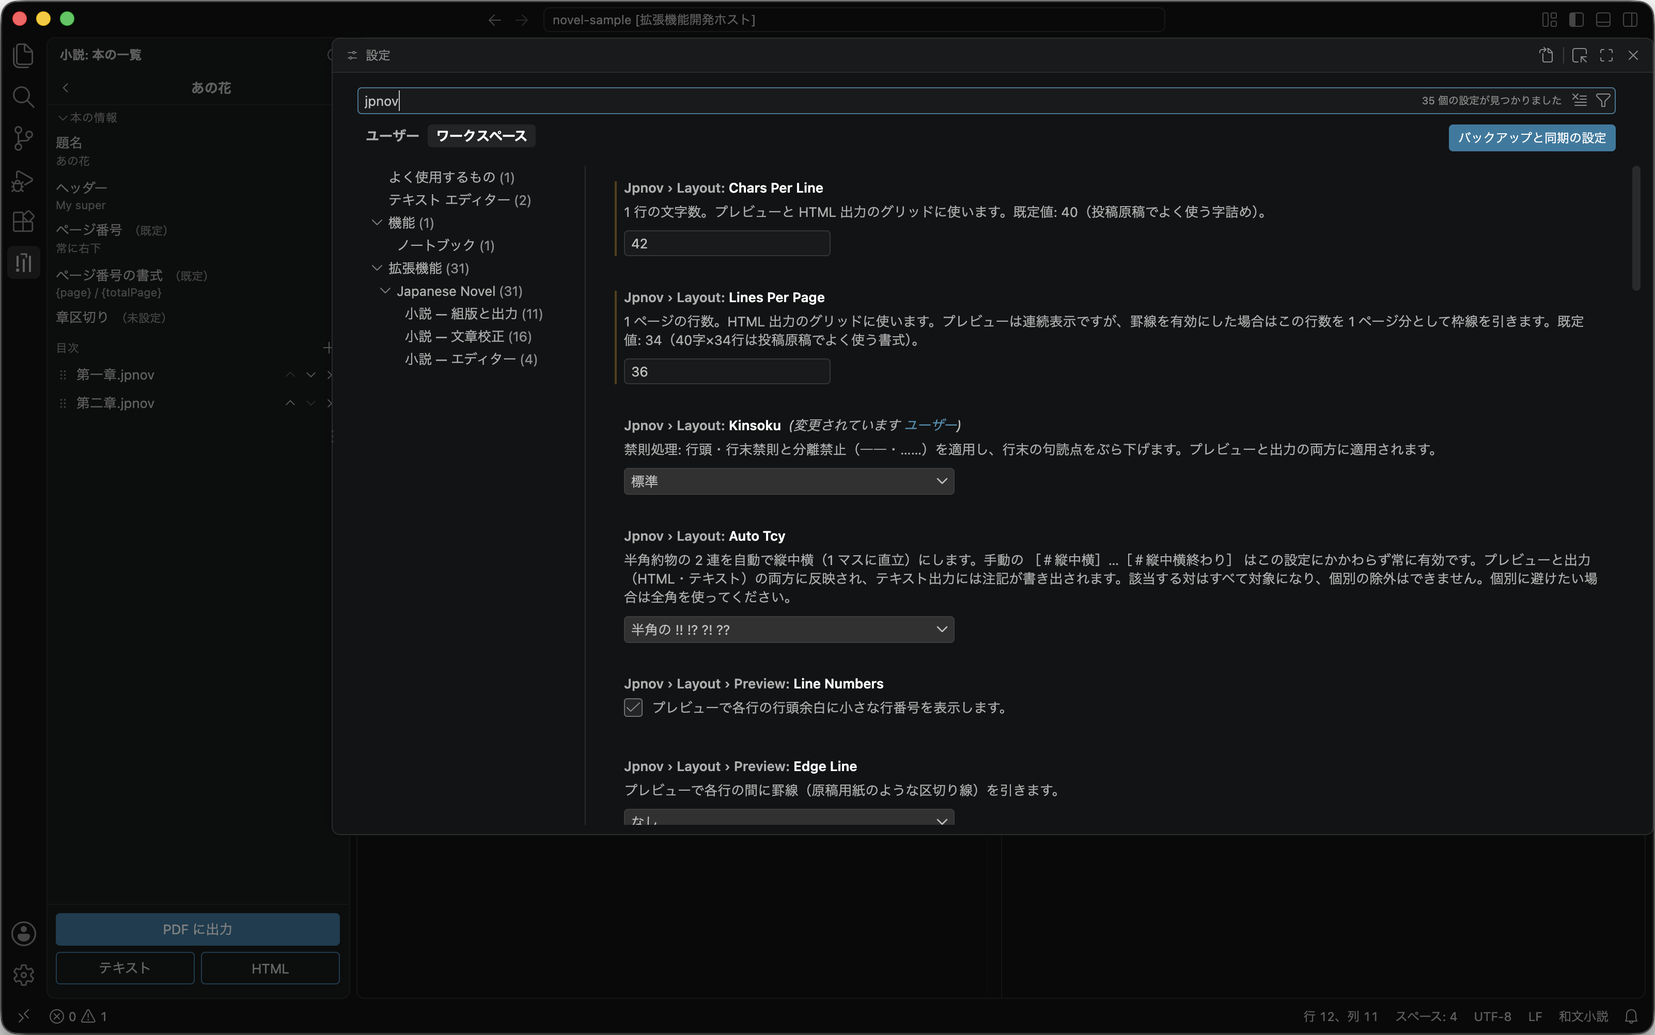
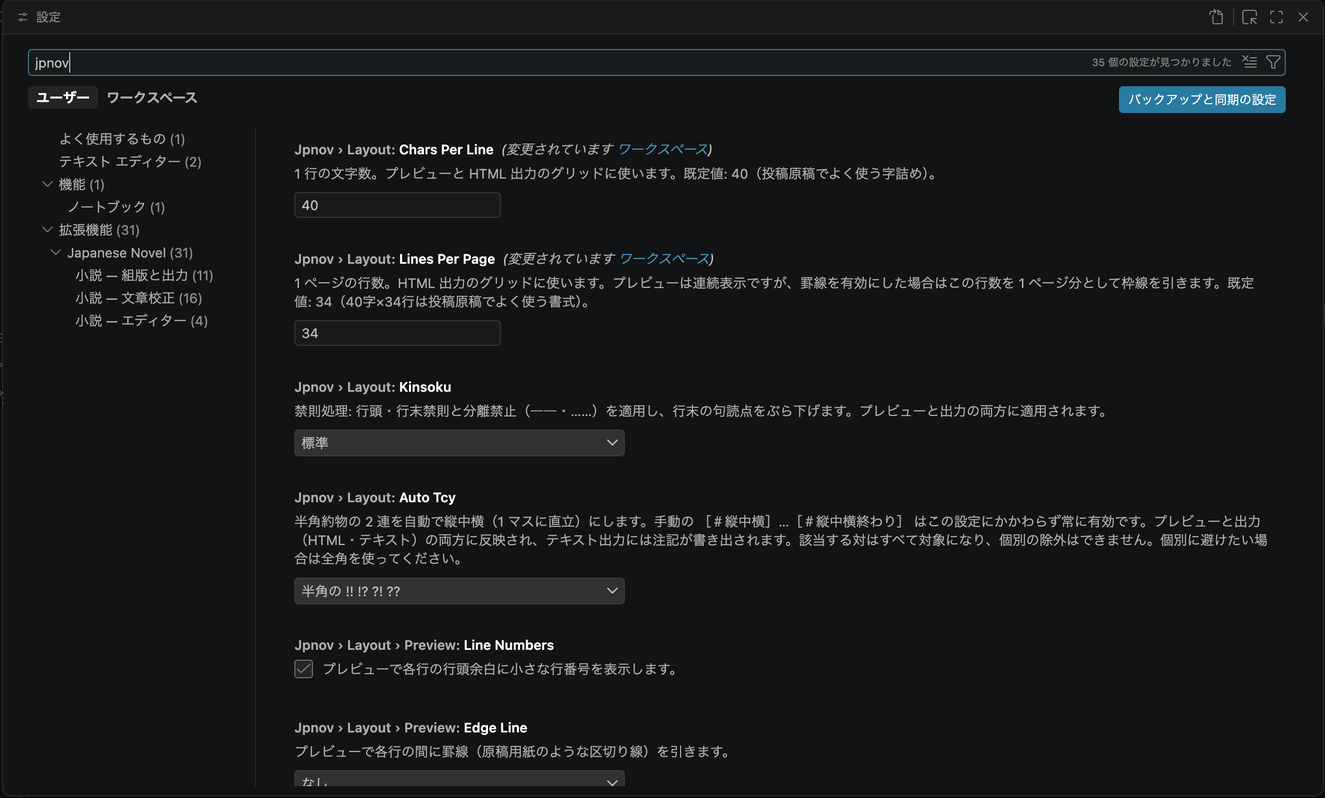
Update docs and screenshots

diff --git a/src/client/book/view.ts b/src/client/book/view.ts
@@ -566,7 +566,7 @@ export class BooksViewProvider implements vscode.WebviewViewProvider, vscode.Dis
       : { pdf: 'PDF', html: 'HTML', epub: 'EPUB' }[action];
     if (books.length === 0) {
       void vscode.window.showInformationMessage(
-        vscode.l10n.t('Japanese Novel: no books selected. Check a book in the Books panel, then build.'),
+        vscode.l10n.t('Japanese Novel: no books selected. Check a book in the Books view, then build.'),
       );
       return;
     }

diff --git a/README.md b/README.md
@@ -19,7 +19,9 @@
 - **文章校正** — 目に見えない不正な文字や、投稿前の体裁くずれに気づけます。
 - **登場人物と造語のハイライト** — 人物の名前や造語が、地の文で目立つ表示になります。
 
-![エディターと縦書きプレビューを並べた VS Code の画面](docs/images/vscode-side-by-side.png)
+![VS Code の執筆画面。左に「本の一覧」、中央に注記付きの原稿、右に縦書きプレビュー](docs/images/vscode-workspace.png)
+
+*ふだんの執筆画面です。左から、「本の一覧」・原稿・縦書きプレビュー*
 
 ## この拡張機能の考え方
 
@@ -51,25 +53,12 @@
 2. **日本語表示にする** — VS Code を起動したら、左端の四角いブロックのアイコン（拡張機能）をクリックし、検索欄に `Japanese Language Pack` と入力してインストール。案内に従って再起動すると、画面が日本語になります。
 3. **この拡張機能を入れる** — 同じ検索欄に `Japanese Novel` と入力してインストールします。
 4. **小説のフォルダーを開く** — 原稿を入れるフォルダーを作り、メニューの「ファイル」→「フォルダーを開く」で開きます。「このフォルダー内のファイルの作成者を信頼しますか?」と聞かれたら、「はい、作成者を信頼します」を選んでください。自分で作ったフォルダーなので心配ありません。
-5. **章を書く** — 「ファイル」→「新しいテキスト ファイル」で書き始め、保存するときに `第一章.jpnov` のように**名前の末尾を `.jpnov` にします**。この名前が「小説の章」の目印です。
-6. **縦書きで確かめる** — `.jpnov` のファイルを開いた状態で、エディター右上の「プレビューを横に開く」アイコンを押すと、隣に縦書きの組み上がりが表示されます。
-7. **本を作る** — 章がいくつかできたら、左端のアクティビティ バーに現れる「小説」（本のアイコン）を開き、「本の一覧」の「＋」（本を作成）でファイル名を入力します。開いた詳細ページで、章を読む順に追加し、題名やヘッダー（ページ上部に入る巻名など）もその場で入力できます。`.jpbook` 1 つが本 1 冊です。
+5. **本を作る** — 左端のアクティビティ バーに現れる「小説」（本のアイコン）を開き、「本の一覧」の「＋」（本を作成…）を押して、本の名前を入力します（末尾の `.jpbook` は最初から入っています）。`.jpbook` 1 つが本 1 冊です。作った本がそのまま開き、「本の情報」と「目次」が現れます。
+6. **章を書く** — 「目次」の「新しい章…」を押すと、`.jpnov` が入った入力欄が出ます。その前に章の名前だけを入力してください（この `.jpnov` が「小説の章」の目印です）。作った章は目次に加わり、そのままエディターで開きます。あとは書くだけです。
+7. **縦書きで確かめる** — 章を開いた状態で、エディター右上の「プレビューを横に開く」アイコンを押すと、エディターの横に縦書きの組み上がりが表示されます。書くそばから反映されます。
+8. **本にする** — 「本の一覧」の下にある「PDF に出力」を押すと、フォルダー内の `dist` に印刷用の PDF ができあがります。本が増えたら、一覧に戻ってチェックを入れれば、まとめて出力できます。
 
-   中身はただのテキスト ファイルです。章のファイル名（開いているフォルダーからのパス）が読む順に 1 行ずつ並び、冒頭に `---` で挟んだブロックを置けば**その本自身の情報**も書けます。手で書いても同じです（詳しくは[ページ番号とヘッダー](#ページ番号とヘッダー)）。
-
-   ```text
-   ---
-   title: 作品名　第一巻
-   header: 作品名　一
-   ---
-   第一章.jpnov
-   第二章.jpnov
-   最終章.jpnov
-   ```
-
-8. **本にする** — 「本の一覧」で、出力したい本にチェックが入っているのを確かめて、一覧の下の「PDF に出力」を押せば、フォルダー内の `dist` に印刷用の PDF ができあがります。それぞれの本の詳細ページから、その本だけを個別に出力することもできます。
-
-![「小説」パネルの「本の一覧」「本の情報」と出力ボタン](docs/images/vscode-books-panel.png)
+![「本の一覧」で本を開いたところ。題名やヘッダーが並ぶ「本の情報」と、章の「目次」](docs/images/vscode-books-panel.png)
 
 同じ流れは、「ようこそ」画面（メニューの「ヘルプ」→「ようこそ」）にあるガイド「小説をはじめる」でも案内しています。
 
@@ -126,7 +115,7 @@
 
 ## 縦書きプレビュー
 
-エディター右上の「プレビューを横に開く」で、隣のパネルに組み上がりが表示されます。
+エディター右上の「プレビューを横に開く」で、原稿の横に組み上がりが表示されます。
 
 - 入力するたびに、すぐ反映されます。
 - エディターでカーソルを動かすと、プレビューも同じ場所まで追いかけます。
@@ -137,13 +126,21 @@
 
 ## 本にする（HTML・PDF・EPUB・テキスト）
 
-`.jpbook` は「本に載せる章を、読む順に並べた目次」です。ファイル名の順でもフォルダーの順でもなく、この目次だけが本の中身と順序を決めます。この仕組みは、長い作品ほど効いてきます。
+`.jpbook` は「本に載せる章を、読む順に並べた目次」です。中身はただのテキストで、章のファイル名（開いているフォルダーからのパス）が 1 行ずつ並びます。
+
+```text
+第一章.jpnov
+第二章.jpnov
+最終章.jpnov
+```
+
+本の中身と順序は、この目次だけが決めます。この仕組みは、長い作品ほど効いてきます。
 
 - **巻ごとに 1 冊** — 長編は `第一巻.jpbook`・`第二巻.jpbook` と分ければ、最新巻だけを 1 つの PDF にして編集部に渡せます。書き溜めた全章がまるごと 1 冊に繋がってしまうことはありません。
 - **載せない章は、本に入りません** — 同じ第一章の別稿をいくつか持っておき、投稿先に合わせて目次の 1 行だけ差し替える、という使い方ができます。
 - **ファイル名は自由** — 順序は目次が決めるので、章のファイルにどんな名前を付けても、あとで名前を変えても、本の並びは崩れません。
 
-本にするには、アクティビティ バーの「小説」を開きます。「本の一覧」で出力したい本にチェックを入れて、一覧の下のボタンを押します。
+本にするには、アクティビティ バーの「小説」を開きます。出力したい本にチェックを入れて、一覧の下のボタンを押します（HTML と EPUB はアイコンのボタンです）。
 
 - **PDF に出力** — 印刷用の PDF。
 - **HTML に出力** — ページ組版の縦書き HTML。ブラウザーで開け、1 ファイルで完結します。
@@ -152,9 +149,7 @@
 
 出力先はフォルダー内の `dist` です（設定「小説 — 組版と出力」で変更できます）。章と本のファイルはフォルダー分けしても大丈夫で、並びはそのまま出力先に反映されます。
 
-**「本の一覧」から直接整えることもできます** — 本の行を開くと「本の情報」と章の一覧が現れます。`+` で章を追加、ドラッグ（または右クリック）で並べ替え、「本の情報」の各行をクリックすると題名・ヘッダー・ページ番号をその場で編集できます。どの操作も `.jpbook` の中身をそのまま書き換えるので、手で書いた場合と完全に同じ結果になります。
-
-![「本の一覧」で本を展開したところ。章の一覧と、題名・ヘッダーなどの「本の情報」](docs/images/vscode-books-panel.png)
+**ふだんの操作は「本の一覧」でできます** — 本を開くと「本の情報」と「目次」が現れます。章を新しく作るときは「新しい章…」を、すでにある章を加えるときは「章を追加…」を押します。並べ替えは、ドラッグか上下のボタンでできます。不要になった章は「×」で本から外せます（ファイルは残ります）。題名やヘッダーは、「本の情報」の各行をクリックすればその場で編集できます。下の出力ボタンは、開いている本だけを出力します。どの操作も `.jpbook` の中身をそのまま書き換えるので、手で書いた場合と完全に同じ結果になります。
 
 章のファイル名を VS Code 内で変えたり移動したりすると、参照している `.jpbook` のパスを更新するか確認が出ます（設定「小説 — エディター」で「常に更新」「更新しない」に変えられます）。VS Code の外で変えた場合は追跡できないので、`.jpbook` の該当行に赤い波線でお知らせします。
 
@@ -220,7 +215,7 @@ divider: ＊　＊　＊
 - `pageNumberFormat` — ページ番号の書式。`{page}`（ページ番号）と `{totalPage}`（総ページ数）が使えます。既定は `{page} / {totalPage}`。
 - `divider` — 章区切り。章と章の間に入れる記号です（例：`＊`・`＊　＊　＊`・`◇`）。次の章が見出しで始まる場合は入りません。そのまま書けば出力時に天地中央揃えになり、`［＃３字下げ］＊` のように書けば字下げで入ります。書かなければ章の間は空行だけになります。
 
-どれも書かなくてかまいません（書いた分だけ既定から変わります）。編集中はキー名や値の候補が自動で出ます。「本の一覧」パネルの「本の情報」からも、同じ内容をクリックで編集できます。
+どれも書かなくてかまいません（書いた分だけ既定から変わります）。編集中はキー名や値の候補が自動で出ます。同じ内容は、「本の一覧」で本を開けば「本の情報」からもクリックで編集できます。
 
 ## 文章校正
 

diff --git a/docs/SCREENSHOTS.md b/docs/SCREENSHOTS.md
@@ -4,7 +4,22 @@
 from the compiler (section A) and **manual VS Code UI captures** (section B).
 Nothing under `docs/` ships in the VSIX — the Marketplace loads these images from
 the GitHub repository via the manifest's `repository` field, so the repo must be
-public by publish time.
+public by publish time. Both READMEs reference the same files.
+
+Inventory:
+
+| File | Kind | Shows |
+| --- | --- | --- |
+| `hero-page.png` | generated (A) | real "Build to PDF" page 1 |
+| `genkoyoshi.png` | generated (A) | same, line numbers + red rules |
+| `notation.png` | generated (A) | annotation specimen |
+| `kinsoku-off.png` / `kinsoku-on.png` | generated (A) | kinsoku comparison |
+| `vscode-workspace.png` | capture 1, whole window (B) | the writing screen: Books view + editor + preview |
+| `vscode-highlight.png` | crop of capture 1 (B) | cast/keyword colouring in narration |
+| `vscode-books-panel.png` | crop of capture 2 (B) | open book: Book Info + 目次 |
+| `vscode-lint-quickfix.png` | crop of capture 2 (B) | lint squiggle + quick-fix menu |
+| `vscode-settings.png` | crop of capture 3 (B) | settings search `jpnov` |
+| `vscode-encoding-statusbar.png` / `vscode-encoding-reopen.png` | ad-hoc crops | FAQ: Shift JIS reopen; UI-stable, retake only if that VS Code flow changes |
 
 ## A. Generated renders
 
@@ -299,9 +314,9 @@ for (const shot of shots) {
 
 ## B. Manual VS Code captures
 
-Five shots need a real VS Code window. Retake one by overwriting its PNG in
-`docs/images/` under the same filename (both READMEs reference the same
-files).
+Five images come from **one window arrangement and three whole-window
+captures**; four of the five are crops of those captures. Retake by
+overwriting the PNGs in `docs/images/` under the same filenames.
 
 Common setup:
 
@@ -395,37 +410,60 @@ divider: ＊　＊　＊
 　次のシーン「焼肉、やっぱうまくね？」
 ```
 
-### `vscode-side-by-side.png` — editor + vertical preview
+### Arrangement (once)
 
-Open `第一章.jpnov`, click the editor-title 「プレビューを横に開く」 icon.
-Must show: annotated source with syntax highlighting on the left, the vertical
-preview on the right, cursor somewhere mid-text.
+Open `第一章.jpnov` and click the editor-title 「プレビューを横に開く」 icon.
+In the activity-bar 「小説」 view, open My 作品集 (click its title row) so the
+sidebar shows 「本の情報」 and 「目次」. Cursor somewhere mid-text. Leave
+`jpnov.lint.narration.generalNovelStyle` **off** for the first capture.
 
-### `vscode-books-panel.png` — Books panel, expanded
+### Capture 1 — the writing screen (clean editor)
 
-Open the activity-bar 「小説」 icon and expand My 作品集 and its 「本の情報」
-group. One shot serves both stories (finding the view + building, and editing
-a book in place), so keep the activity bar in frame — a full window with the
-editor and preview behind is fine. Must show: My 作品集 checked (labelled by
-its front-matter title), the view title-bar build buttons with the
-「PDF に出力」 tooltip under the pointer, the two chapter rows, and all five
-本の情報 rows with their values (題名・ヘッダー・章区切り set, the ページ番号
-rows at their defaults).
+Whole window, saved as `vscode-workspace.png`; one editor crop from the
+same PNG becomes `vscode-highlight.png`.
 
-### `vscode-highlight.png` — cast & keyword highlighting
+- `vscode-workspace.png` must show: 目次 with the two chapter rows in the
+  sidebar, annotated source with syntax highlighting in the middle, the
+  vertical preview on the right.
+- `vscode-highlight.png` (crop around lines 1–21) must show: `林は` /
+  `神木林は` coloured as subjects, `境無` bold, dialogue lines left in body
+  colour. **Check the colours at 1:1 before cropping** — they are the whole
+  point of this image. If nothing is coloured, the workspace highlight
+  settings didn't load; fix that before capturing.
 
-Frame a narration paragraph containing 「林は境無を構えた。」. Must show:
-`林は` / `神木林は` coloured as a subject, `境無` bold, dialogue lines left in body colour.
+### Capture 2 — book management + quick fix
 
-### `vscode-lint-quickfix.png` — lint quick fix
+Expand 「本の情報」, enable `jpnov.lint.narration.generalNovelStyle` (the
+line-2 sample text is its bait), and open the lightbulb menu on the squiggle.
+Whole window, then two crops:
 
-Enable `jpnov.lint.narration.generalNovelStyle`, write a narration line without
-the leading full-width indent, open the lightbulb menu on the squiggle. Must
-show: the squiggle and the open quick-fix menu.
+- `vscode-books-panel.png` (sidebar incl. activity bar): from the view header
+  down through the 「新しい章…」 row. Must show all six 本の情報 rows
+  (題名・ヘッダー・章区切り filled in; 著者 and the ページ番号 rows at their
+  defaults), the chapter rows, and the 目次 header's 「章を追加…」 button.
+  The build buttons are deliberately outside this crop — they are visible in
+  `vscode-workspace.png`.
+- `vscode-lint-quickfix.png` (editor area): the squiggle, its hover, and the
+  open quick-fix menu, plus a few lines of context.
 
-### `vscode-settings.png` — settings UI
+### Capture 3 — settings
 
 Settings (<kbd>⌘,</kbd>) → search `jpnov` (settings search matches the key
 prefix; it does not index the localized group titles, so 「小説」 finds
-nothing). Must show: the 「小説 — 組版と出力」 group with the 40 × 34 defaults
-visible.
+nothing). Whole window, cropped to the settings editor. Must show: the three
+小説 groups in the tree on the left, and the 「小説 — 組版と出力」 items with
+the 40 × 34 defaults visible.
+
+### Crop commands
+
+The rects used this round (ffmpeg, physical px on a 3204×2004 capture with
+the sidebar at ≈425 logical px). Bounds shift with your window and sidebar
+size — re-aim by eye, or crop in Preview.app; nothing depends on exact
+pixels.
+
+```sh
+ffmpeg -i cap1.png -vf "crop=1088:766:706:182"  docs/images/vscode-highlight.png
+ffmpeg -i cap2.png -vf "crop=682:762:0:76"      docs/images/vscode-books-panel.png
+ffmpeg -i cap2.png -vf "crop=1104:368:706:134"  docs/images/vscode-lint-quickfix.png
+ffmpeg -i cap3.png -vf "crop=2544:1452:644:80"  docs/images/vscode-settings.png
+```

diff --git a/README.en.md b/README.en.md
@@ -26,7 +26,9 @@ one-command HTML / PDF / EPUB / text builds. No AI anywhere in the writing path
 - **Cast & keyword highlighting** — semantic colouring of character names and
   coined terms in narration.
 
-![VS Code with an annotated chapter on the left and the vertical preview on the right](docs/images/vscode-side-by-side.png)
+![VS Code while writing: the Books view on the left, an annotated chapter in the middle, the vertical preview on the right](docs/images/vscode-workspace.png)
+
+*The everyday writing layout: the book's table of contents, the manuscript, and the vertical preview in one window.*
 
 ## Design stance
 
@@ -46,24 +48,26 @@ one-command HTML / PDF / EPUB / text builds. No AI anywhere in the writing path
 
 ## Quick start
 
-1. **Write a chapter.** Create a file ending in `.jpnov` (e.g. `chapter1.jpnov`)
-   and start writing. Aozora Bunko annotations are highlighted as you type;
+1. **Make a book.** Open the **Books** view in the Activity Bar (the
+   **Japanese Novel** book icon) and click **Create a Book…** (`+`): the
+   input box comes with `.jpbook` already in place, so type just the name in
+   front of it. The new book opens right there with its **Book Info** and
+   **Chapters** sections. One `.jpbook` is one book: a plain text file with
+   one chapter path per line, each relative to the workspace folder, so
+   moving the `.jpbook` never breaks them. An optional `---`-fenced block at
+   the top carries the book's own metadata — title, running head,
+   page-number style (see
+   [Per-book metadata](#per-book-metadata-front-matter)). Editing the file
+   by hand does the same thing the view does.
+2. **Write chapters.** Click **New chapter…** under **Chapters** and name
+   the chapter the same way: the `.jpnov` file is created, listed in the
+   book, and opened in the editor. Aozora Bunko annotations are highlighted as you type;
    click the preview icon in the editor title bar (**Japanese Novel: Open
-   Preview to the Side**) to see the vertical layout.
-2. **Make a book.** Open the **Japanese Novel** view in the Activity Bar (the
-   book icon) and click the **Create a Book** button (`+`): type a file name,
-   then add chapters in reading order and edit the title right there. One
-   `.jpbook` is one book.
-   It's a plain text file — chapter paths one per line (counted from the
-   workspace folder, so moving the `.jpbook` never breaks them), plus an
-   optional `---`-fenced front-matter block for the book's own metadata
-   (title, running head, page-number style — see
-   [Per-book metadata](#per-book-metadata-front-matter)) — so hand-editing
-   works the same.
-3. **Build it.** Save everything (builds read from disk), tick the books you
-   want in the Books view, and use **Build to HTML**, **Build to PDF**,
-   **Build to EPUB**, or **Build to Text** with the buttons at the bottom of
-   the view.
+   Preview to the Side**) to write beside the vertical layout.
+3. **Build it.** Save everything (builds read from disk) and hit **Build to
+   PDF** at the bottom of the view; the text, HTML, and EPUB buttons sit
+   beside it. With a book open, the buttons build just that book; back in
+   the list, they build every ticked book.
 
 Chapters and book files can live anywhere in the workspace folder; subfolders are
 mirrored into the output (`src/volume1.jpbook` builds to
@@ -201,9 +205,10 @@ are toggled under **Japanese Novel — Layout & Output**.
 
 ## Building books
 
-The **Japanese Novel** Activity Bar view lists every discovered `.jpbook` as
+The **Books** view in the Activity Bar lists every discovered `.jpbook` as
 a book with a checkbox (labelled by its front-matter `title` when it declares
-one). The buttons at the bottom of the view build the checked books:
+one). The buttons at the bottom of the view build the checked books (HTML
+and EPUB are icon buttons):
 
 - **Build to HTML** — one standalone, paginated vertical `.html` per book
   (inline CSS, no external assets).
@@ -236,13 +241,16 @@ and enum values), diagnostics (missing files, duplicates, escaping the
 workspace, unknown metadata keys…), and document links — Cmd/Ctrl-click an
 entry to open the chapter.
 
-The panel manages books, too: expand one for its Book Info rows and chapter
-list — [+] adds chapters, drag (or the context menu) reorders them, and
-clicking an Info row edits the title, header, or page number in place. Every
-action rewrites the `.jpbook` text itself, so the panel and code mode always
-agree.
+The Books view edits books, too. Open one to see its **Book Info** and
+**Chapters** sections: **New chapter…** creates a chapter file and adds it
+to the book, **Add chapters…** brings in files you already have, dragging
+(or the arrow buttons) reorders them, and **×** takes an entry out of the
+book while keeping the file. Expand **Book Info** and click a row to edit
+that value in place; the buttons at the bottom build only the open book.
+Every action rewrites the `.jpbook` text itself, so the view and
+hand-editing always agree.
 
-![The Books view: expanded to its chapter list and Book Info rows, with the build buttons at the bottom](docs/images/vscode-books-panel.png)
+![The Books view with a book open: its Book Info rows and chapter list](docs/images/vscode-books-panel.png)
 
 Renaming or moving a chapter (or a folder of chapters) inside VS Code offers
 to update every `.jpbook` that references it —
@@ -279,8 +287,8 @@ divider: ＊　＊　＊
 | `divider` | — | Chapter divider inserted between chapters that do not open with a heading (e.g. `＊　＊　＊`); a bare mark is centred along the line at build time, a `［＃３字下げ］` prefix indents it instead; omit for a single blank line |
 
 Every key is optional; unknown keys warn and are ignored, so future keys stay
-forward-compatible. The same six keys are also editable from the Books
-panel's Book Info rows.
+forward-compatible. The same six keys are also editable from the **Book
+Info** rows in the Books view.
 
 ## Character & keyword highlighting
 
@@ -450,7 +458,7 @@ npm run build:dev   # bundle to dist/ (ESM)
 
 The rendered images in this README are generated straight from the compiler —
 see [docs/SCREENSHOTS.md](./docs/SCREENSHOTS.md) to regenerate them or to
-capture the pending UI shots.
+retake the VS Code captures.
 
 ## License
 

diff --git a/media/walkthrough/build.md b/media/walkthrough/build.md
@@ -6,7 +6,7 @@ header: 作品名　一
 ---
 first-chapter.jpnov
 final-chapter.jpnov
-        │  「小説」パネルでチェック → 出力
+        │  「本の一覧」でチェック → 出力
         ▼
 dist/volume1.html  … 縦書き・ページ組版
 dist/volume1.pdf   … 印刷用 PDF
